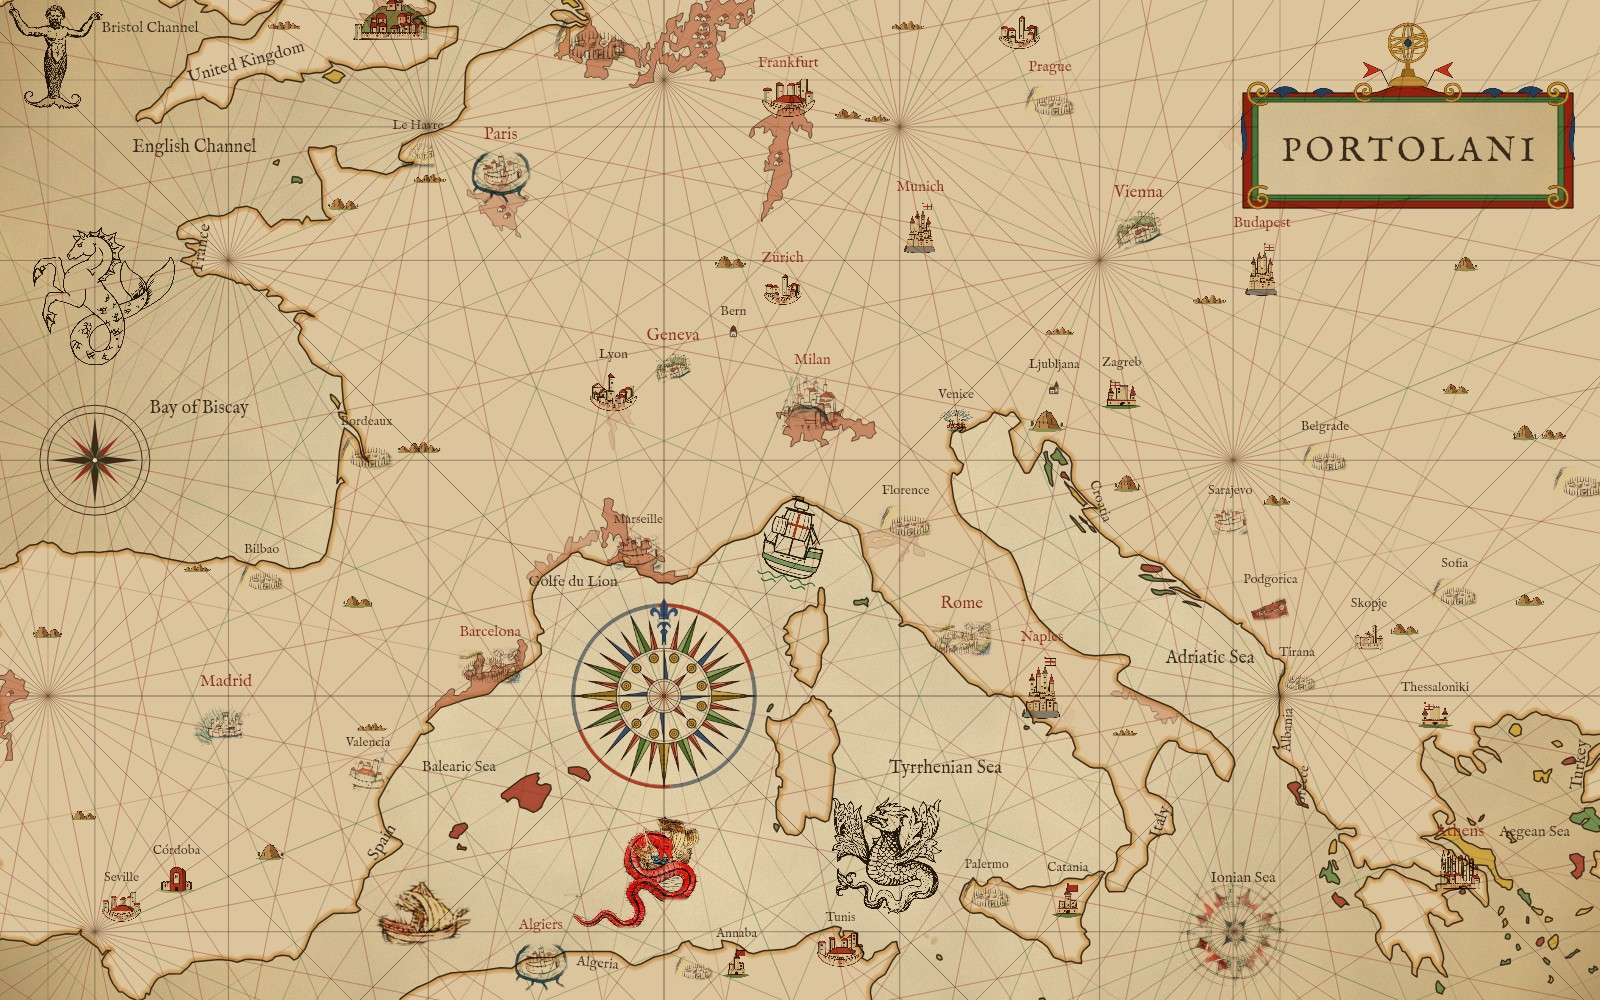
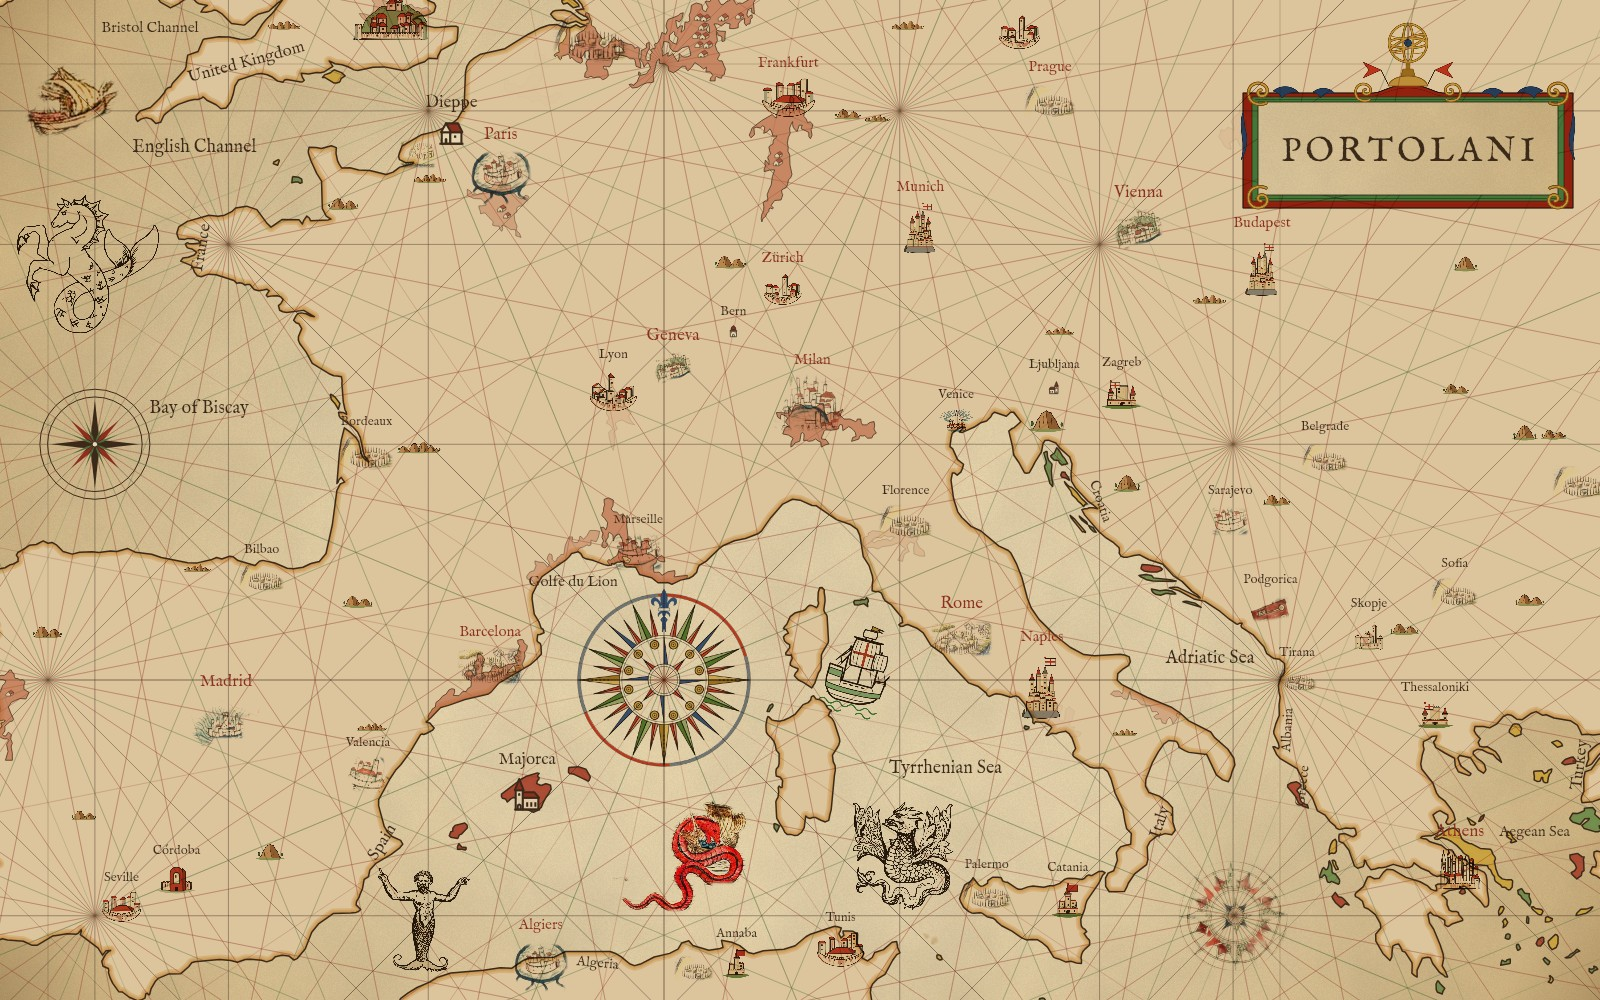
feat(page): the go-to places name the cartouche; points of interest too small for the city data
A place flown to letters the cartouche (THE WORLD, not AFRICA) until the map is moved by hand.
Majorca, Dieppe, Guam, the Marquesas, Pukapuka and Pitcairn, which Natural Earth's places lack
or hold only as a rank-6 name, are lettered from z4 with a church, house or tent, and name the
cartouche when the view is about them.

diff --git a/public/page.js b/public/page.js
@@ -347,6 +347,7 @@ showStyle();
 if (LEGACY_KEYS.some((k) => hashParams().has(k))) writeHash(); // an older link, rewritten in the new form
 let ground = null; // { world, coarse, bg, anchored } from the last placement, all a moving frame needs
 let placed = null; // the view the canvas shows with its ornaments
+let pinTitle = null; // the name of the place last flown to, on the cartouche until the map is moved by hand
 let run = 0;
 
 async function render() {
@@ -359,7 +360,7 @@ async function render() {
       ...style, relief: style.mountains === 'colour' ? ['marina'] : style.mountains === 'ink' ? ['engraved'] : [],
       continents: style.continentsZoom > 0, continentsZoom: style.continentsZoom,
       regions: style.regionsZoom > 0 ? style.regions : 'off', regionsZoom: style.regionsZoom,
-      sprites: [...selection], kinds, view,
+      sprites: [...selection], kinds, view, pinTitle: style.autoTitle ? pinTitle : null,
     });
     if (me !== run) return; // a newer change or a move superseded this one
     ground = { world, coarse, bg, anchored: anchorScene(scene, data) };
@@ -397,8 +398,9 @@ canvas.addEventListener('pointerdown', () => setDrawer(false));
 // ---------------------------------------------------------------- moving
 
 let frame = 0, settle = 0;
-function moved(next) {
+function moved(next, flying = false) {
   if (next.zoom === view.zoom && next.lon === view.lon && next.lat === view.lat) return; // e.g. wheel at a zoom bound
+  if (!flying) pinTitle = null; // a drag or a wheel leaves the place flown to
   view = next;
   run++; // a placement still in flight is for a view already left
   clearTimeout(settle);
@@ -473,22 +475,23 @@ const around = (lon, lat, r) => viewOfFrame({ lonMin: lon - r, lonMax: lon + r, 
 const at = (lon, lat, zoom) => ({ lon, lat, zoom });
 const ORIGINS = [
   ['', [
-    ['Mediterranean', DEFAULT_VIEW],
-    ['The North', viewOfFrame({ lonMin: 0, lonMax: 40, latMin: 54, latMax: 72 })], // Carta Marina
+    ['Mediterranean', DEFAULT_VIEW, 'The Mediterranean'],
+    ['The North', viewOfFrame({ lonMin: 0, lonMax: 40, latMin: 54, latMax: 72 }), 'The North'], // Carta Marina
     ['Virginia', at(-76, 36.28, 7.47)], // de Bry
-    ['The world', at(10, 25, 0)],
+    ['The world', at(10, 25, 0), 'The World'],
   ]],
   ['Chart centres', [
-    ['Carte Pisane, west', around(7.4, 40.0, 8)],
-    ['Carte Pisane, east', around(27.4, 36.8, 7.5)],
+    ['Carte Pisane, west', around(7.4, 40.0, 8), 'Carte Pisane'],
+    ['Carte Pisane, east', around(27.4, 36.8, 7.5), 'Carte Pisane'],
     ['Vesconte 1311', around(25.2, 37.5, 3)],
     ['Dulcert 1339', around(14.5, 40.0, 17)],
-    ['Catalan Atlas, rose', around(-20.7, 42.1, 16)],
-    ['Catalan Atlas, network', around(-5.4, 42.3, 16)],
-    ['Carta Marina, Bothnian rose', around(19.7, 61.7, 6)],
-    ['De la Cosa, west', around(-45, 23.4, 15)],
-    ['De la Cosa, east', around(65, 23.4, 15)],
+    ['Catalan Atlas, rose', around(-20.7, 42.1, 16), 'Catalan Atlas'],
+    ['Catalan Atlas, network', around(-5.4, 42.3, 16), 'Catalan Atlas'],
+    ['Carta Marina, Bothnian rose', around(19.7, 61.7, 6), 'Carta Marina'],
+    ['De la Cosa, west', around(-45, 23.4, 15), 'De la Cosa'],
+    ['De la Cosa, east', around(65, 23.4, 15), 'De la Cosa'],
   ]],
+  // the places that are lettered on the chart whatever the city data holds are in scripts/pois.mjs
   ['Elsewhere', [
     ['Lisbon', at(-9.14, 38.72, 7.5)],
     ['Seville', at(-5.98, 37.39, 7.5)],
@@ -499,15 +502,16 @@ const ORIGINS = [
     ['Maluku Islands', at(128, -3, 5)],
     ['Solomon Islands', at(160, -9, 5)],
     ['Marquesas Islands', at(-140, -9, 6)],
-    ['Pukapuka Atoll', at(-138.8, -14.82, 6.5)], // Magellan's San Pablo, 1521 (the Tuamotu one)
-    ['Pitcairn Island', at(-130.1, -25.07, 6.5)],
+    ['Pukapuka Atoll', at(-138.8, -14.82, 6.5), 'Pukapuka'], // Magellan's San Pablo, 1521 (the Tuamotu one)
+    ['Pitcairn Island', at(-130.1, -25.07, 6.5), 'Pitcairn'],
   ]],
 ];
 const originViews = [];
-$('origins').innerHTML = ORIGINS.map(([title, items]) =>
-  (title ? `<li class="group">${title}</li>` : '') + items.map(([name, v]) => `<li><button type="button" data-origin="${originViews.push(v) - 1}">${name}</button></li>`).join('')).join('');
+// The cartouche names the place flown to (its title, else the button's name), not whatever scores highest in the frame.
+$('origins').innerHTML = ORIGINS.map(([group, items]) =>
+  (group ? `<li class="group">${group}</li>` : '') + items.map(([name, v, title]) => `<li><button type="button" data-origin="${originViews.push({ ...v, title: title ?? name }) - 1}">${name}</button></li>`).join('')).join('');
 $('origins').addEventListener('click', (e) => { const b = e.target.closest('[data-origin]'); if (b) goTo(originViews[b.dataset.origin]); });
-$('home').addEventListener('click', () => goTo(DEFAULT_VIEW));
+$('home').addEventListener('click', () => goTo({ ...DEFAULT_VIEW, title: 'The Mediterranean' }));
 
 // A typed position: "36.28, -76" or "36.28N 76W" (latitude first), flown to and marked as the position.
 function parseLatLon(text) {
@@ -530,13 +534,14 @@ $('clearHere').addEventListener('click', () => setHere(null));
 let flight = 0;
 function goTo(target) {
   cancelAnimationFrame(flight);
+  pinTitle = null;
   const from = view, to = clampView({ ...target, projection: view.projection });
   const dlon = ((to.lon - from.lon + 540) % 360) - 180; // the short way round
   const ms = matchMedia('(prefers-reduced-motion: reduce)').matches ? 0 : 600, t0 = performance.now();
   const step = (now) => {
     const u = ms ? Math.min(1, (now - t0) / ms) : 1, e = u < 0.5 ? 2 * u * u : 1 - (2 - 2 * u) ** 2 / 2;
-    moved(u < 1 ? clampView({ lon: from.lon + dlon * e, lat: from.lat + (to.lat - from.lat) * e, zoom: from.zoom + (to.zoom - from.zoom) * e, projection: to.projection }) : to);
-    if (u < 1) flight = requestAnimationFrame(step); else stopped();
+    moved(u < 1 ? clampView({ lon: from.lon + dlon * e, lat: from.lat + (to.lat - from.lat) * e, zoom: from.zoom + (to.zoom - from.zoom) * e, projection: to.projection }) : to, true);
+    if (u < 1) flight = requestAnimationFrame(step); else { pinTitle = target.title ?? null; placed = null; stopped(); }
   };
   step(t0);
 }
